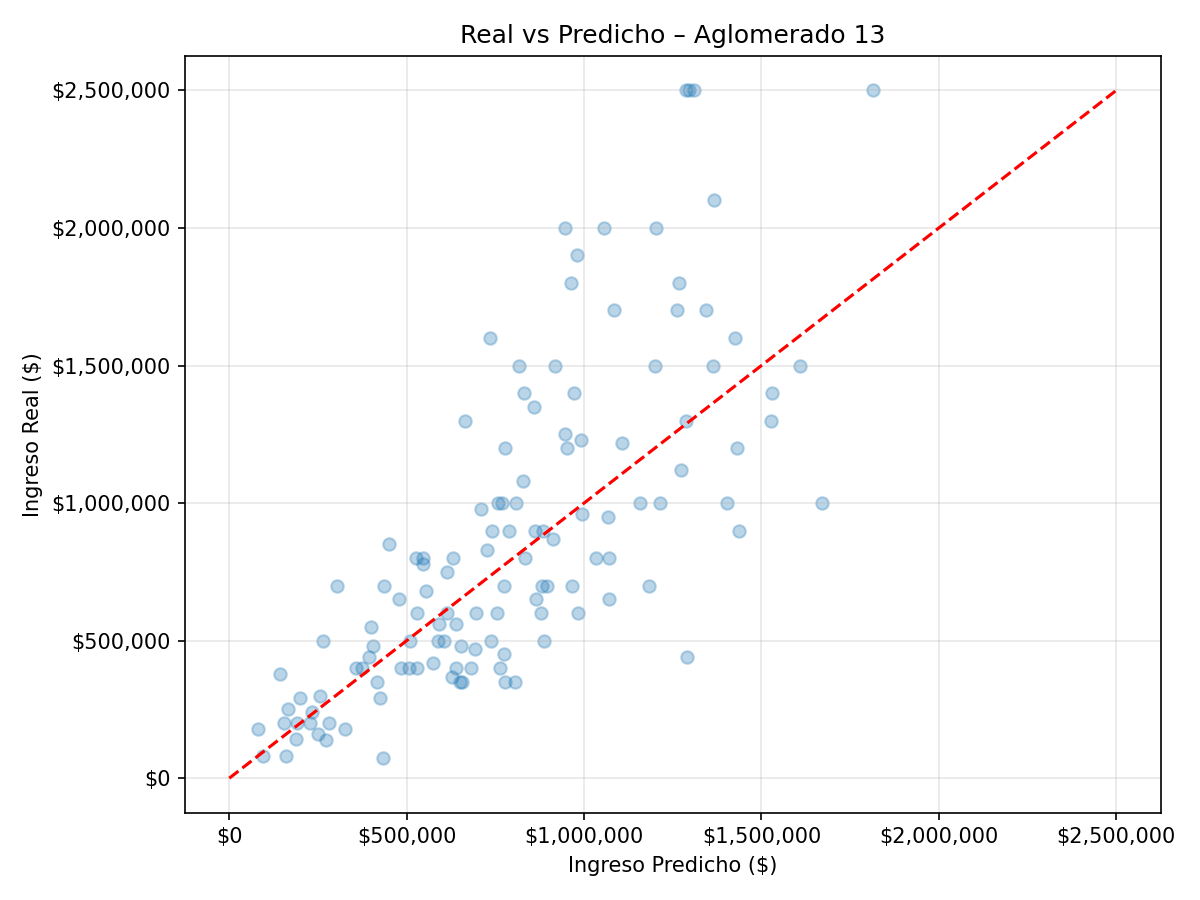
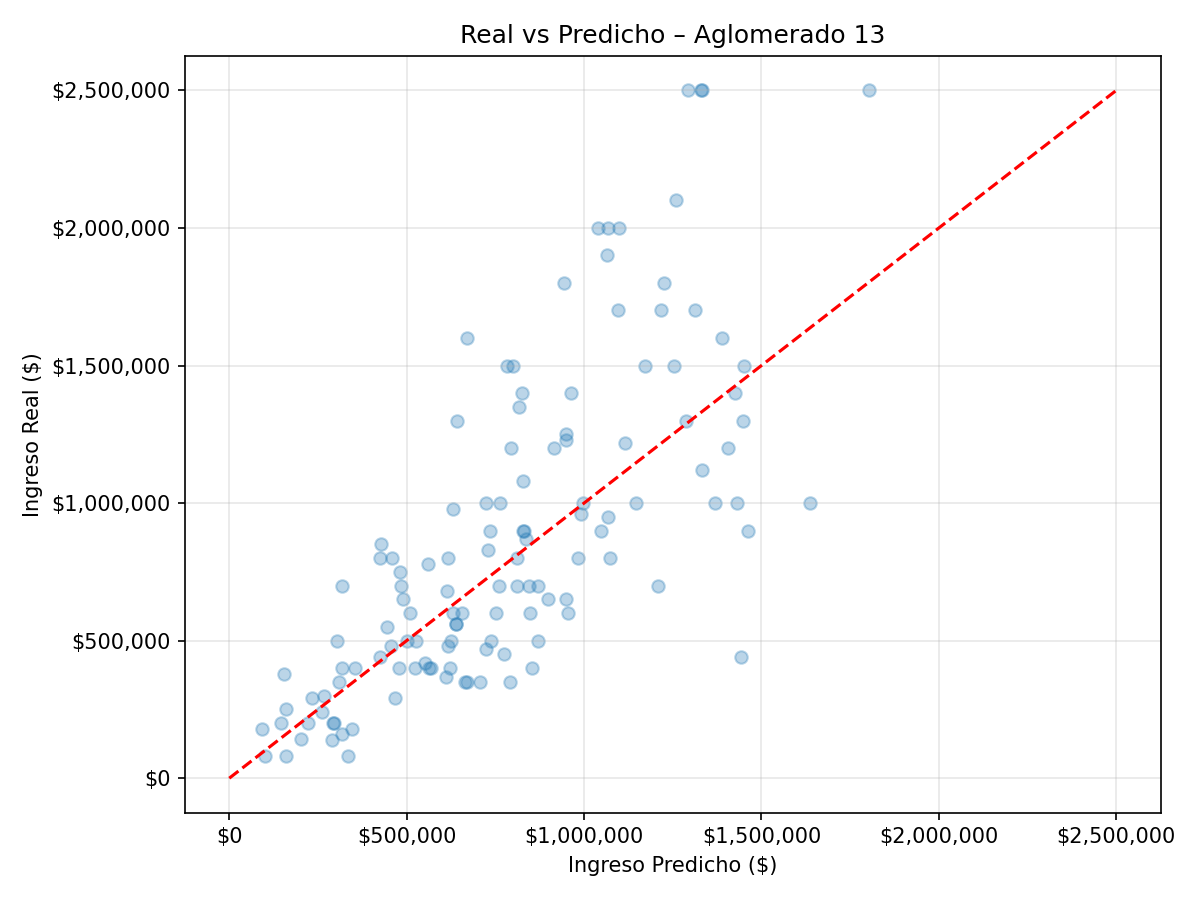
entrega

diff --git a/modelo_imputacion.py b/modelo_imputacion.py
@@ -78,17 +78,23 @@ def estimar_modelo_por_aglomerado(df, aglo):
 
     df_validos = df_model[df_model[VARS['INGRESO']] > 0].copy() 
 
-    # --- Tratamiento de outliers SOLO para CABA ---
-    if aglo == 32:  # CABA
-        q99 = df_validos[VARS['INGRESO']].quantile(0.99)
-        print(f"[Aglo {aglo}] Percentil 99 ingreso: {q99:,.0f}")
-        
-        # Winsorizar: aplastar la cola superior al p99
-        df_validos[VARS['INGRESO']] = np.minimum(df_validos[VARS['INGRESO']], q99)
+    q99 = df_validos[VARS['INGRESO']].quantile(0.99)
+    q01 = df_validos[VARS['INGRESO']].quantile(0.01)
+    df_validos[VARS['INGRESO']] = np.clip(
+        df_validos[VARS['INGRESO']], 
+        q01, 
+        q99
+    )
 
     df_validos["LOG_P21"] = np.log(df_validos[VARS['INGRESO']])
 
     print("Registros válidos:", len(df_validos))
+    # Agregá antes del modelo
+    print(f"\n📊 ESTADÍSTICAS DESCRIPTIVAS")
+    print(f"Media ingreso: ${df_validos[VARS['INGRESO']].mean():,.0f}")
+    print(f"Mediana ingreso: ${df_validos[VARS['INGRESO']].median():,.0f}")
+    print(f"Desvío estándar: ${df_validos[VARS['INGRESO']].std():,.0f}")
+    print(f"CV (coef. variación): {df_validos[VARS['INGRESO']].std() / df_validos[VARS['INGRESO']].mean():.2f}")
 
     # ---------------------------------------
     # Entrenamiento
@@ -104,10 +110,12 @@ def estimar_modelo_por_aglomerado(df, aglo):
         f"{VARS['EDAD']} + EDAD_SQ + "
         f"C({VARS['SEXO']}) + "
         f"C({VARS['EDUCACION']}) + "
+        f"C({VARS['EDUCACION']})*{VARS['EDAD']} + "  
         f"np.log({VARS['HORAS']}) + "
         f"C({VARS['CATEGORIA']}) + "
         f"C({VARS['FORMALIDAD']}) + "
-        f"C({VARS['SECTOR']})"
+        f"C({VARS['SECTOR']}) + "
+        f"C({VARS['SEXO']})*C({VARS['EDUCACION']})" 
     )
 
     modelo = smf.wls(
@@ -117,6 +125,10 @@ def estimar_modelo_por_aglomerado(df, aglo):
     ).fit()
 
     print("Modelo entrenado.")
+    # Agregá esto después de entrenar
+    print(f"Observaciones: {len(X_train)}")
+    print(f"Parámetros estimados: {len(modelo.params)}")
+    print(f"Ratio obs/params: {len(X_train)/len(modelo.params):.1f}")
 
     # ---------------------------------------
     # PREDICCIONES EN ESCALA ORIGINAL
@@ -181,7 +193,6 @@ def estimar_modelo_por_aglomerado(df, aglo):
     plt.savefig(f"residuos_{aglo}.png", dpi=150)
     plt.close()
 
-
     # 3. QQ-plot
     fig = plt.figure(figsize=(8, 6))
     sm.qqplot(residuos, line="45", fit=True, ax=plt.gca())
@@ -204,3 +215,5 @@ for aglo in AGLOS.keys():
     estimar_modelo_por_aglomerado(df, aglo)
 
 print("\n🎉 Modelos por aglomerado generados con éxito.")
+
+
